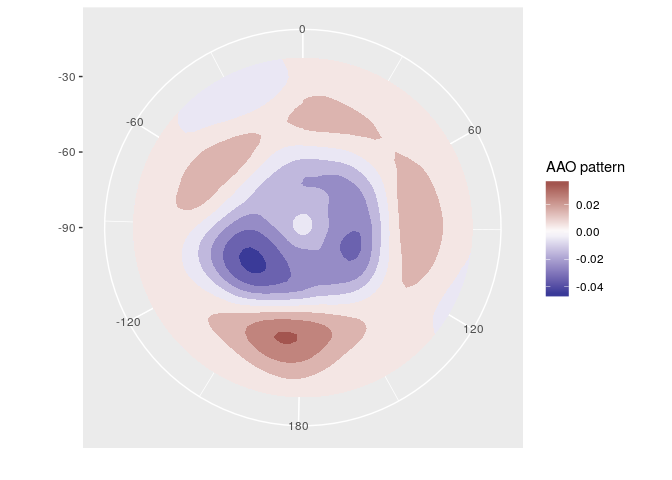
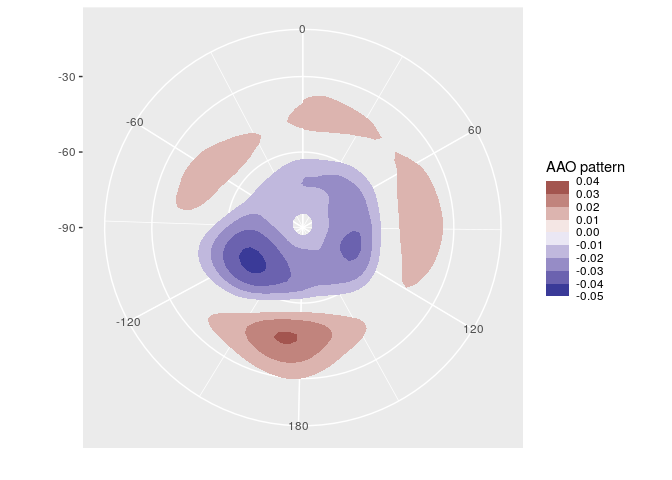
Readme and documentation

Changed region(s): [[0.8125, 0.5, 0.9062, 0.625], [0.8125, 0.375, 0.9062, 0.4688], [0.4375, 0.1562, 0.4688, 0.1875]]

diff --git a/README.md b/README.md
@@ -38,11 +38,14 @@ aao[, gh.t.w := Anomaly(gh)*sqrt(cos(lat*pi/180)),
 aao.svd <- EOF(aao, lat + lon ~ date, value.var = "gh.t.w", n = 1)
 
 # AAO field
+binwidth <- 0.01
 ggplot(aao.svd$left, aes(lon, lat, z = value)) +
-    stat_contour_fill() +    # filled contours!
+    stat_contour_fill(binwidth = binwidth, exclude = 0, complete = F) +    # filled contours!
     scale_x_longitude() +
     scale_y_latitude(limits = c(-90, -20)) +
-    scale_fill_divergent(name = "AAO pattern") +
+    scale_fill_divergent(name = "AAO pattern", 
+                         breaks = MakeBreaks(binwidth),
+                         guide = guide_colorstrip()) +
     coord_polar()
 ```
 

diff --git a/NEWS.md b/NEWS.md
@@ -23,7 +23,7 @@ functionality in `Derivate()`
 - `ReadNetCDF()` now supports timezones via de `udunits2` package.
 - Fixed bad polygon ordering and extra polygon in `stat_contour_fill()`.
 - New function `MakeBreaks()`.
-- New guide. `guide_colorstrip` displays discretized values of a continuous color 
+- New guide. `guide_colorstrip()` displays discretized values of a continuous color 
 or fill scale. 
 
 # meteoR 0.0.9100
